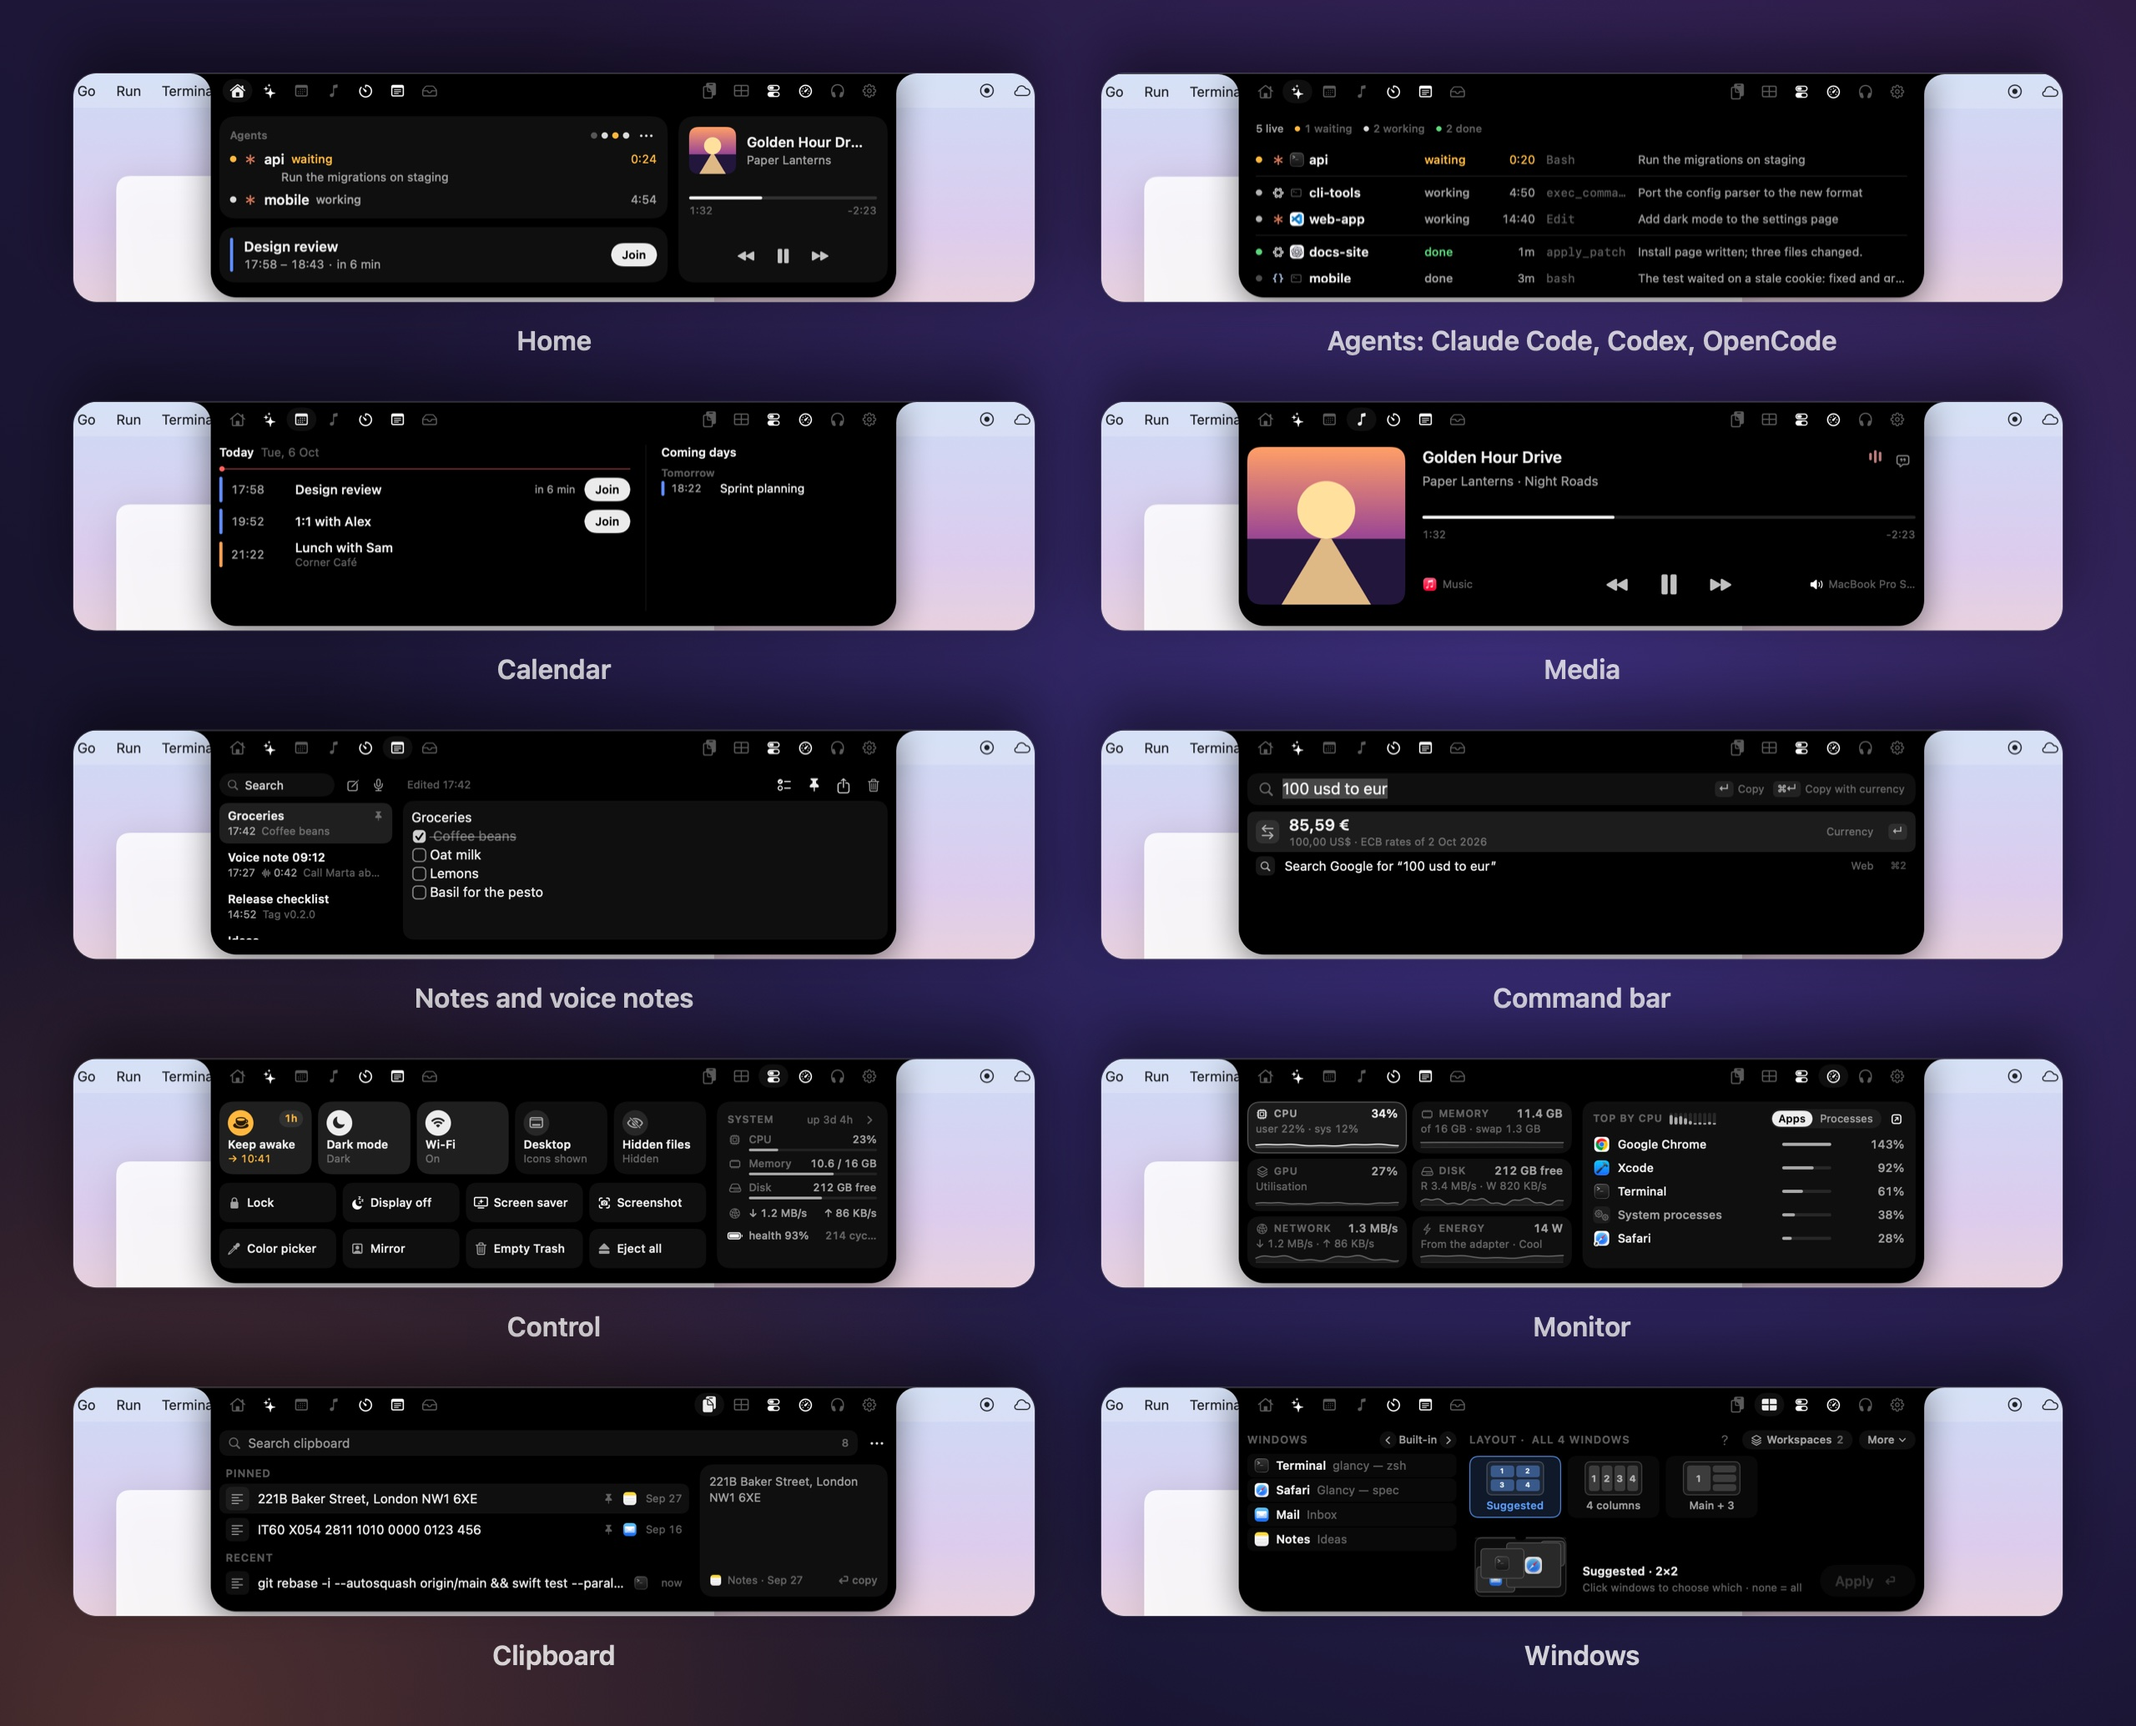
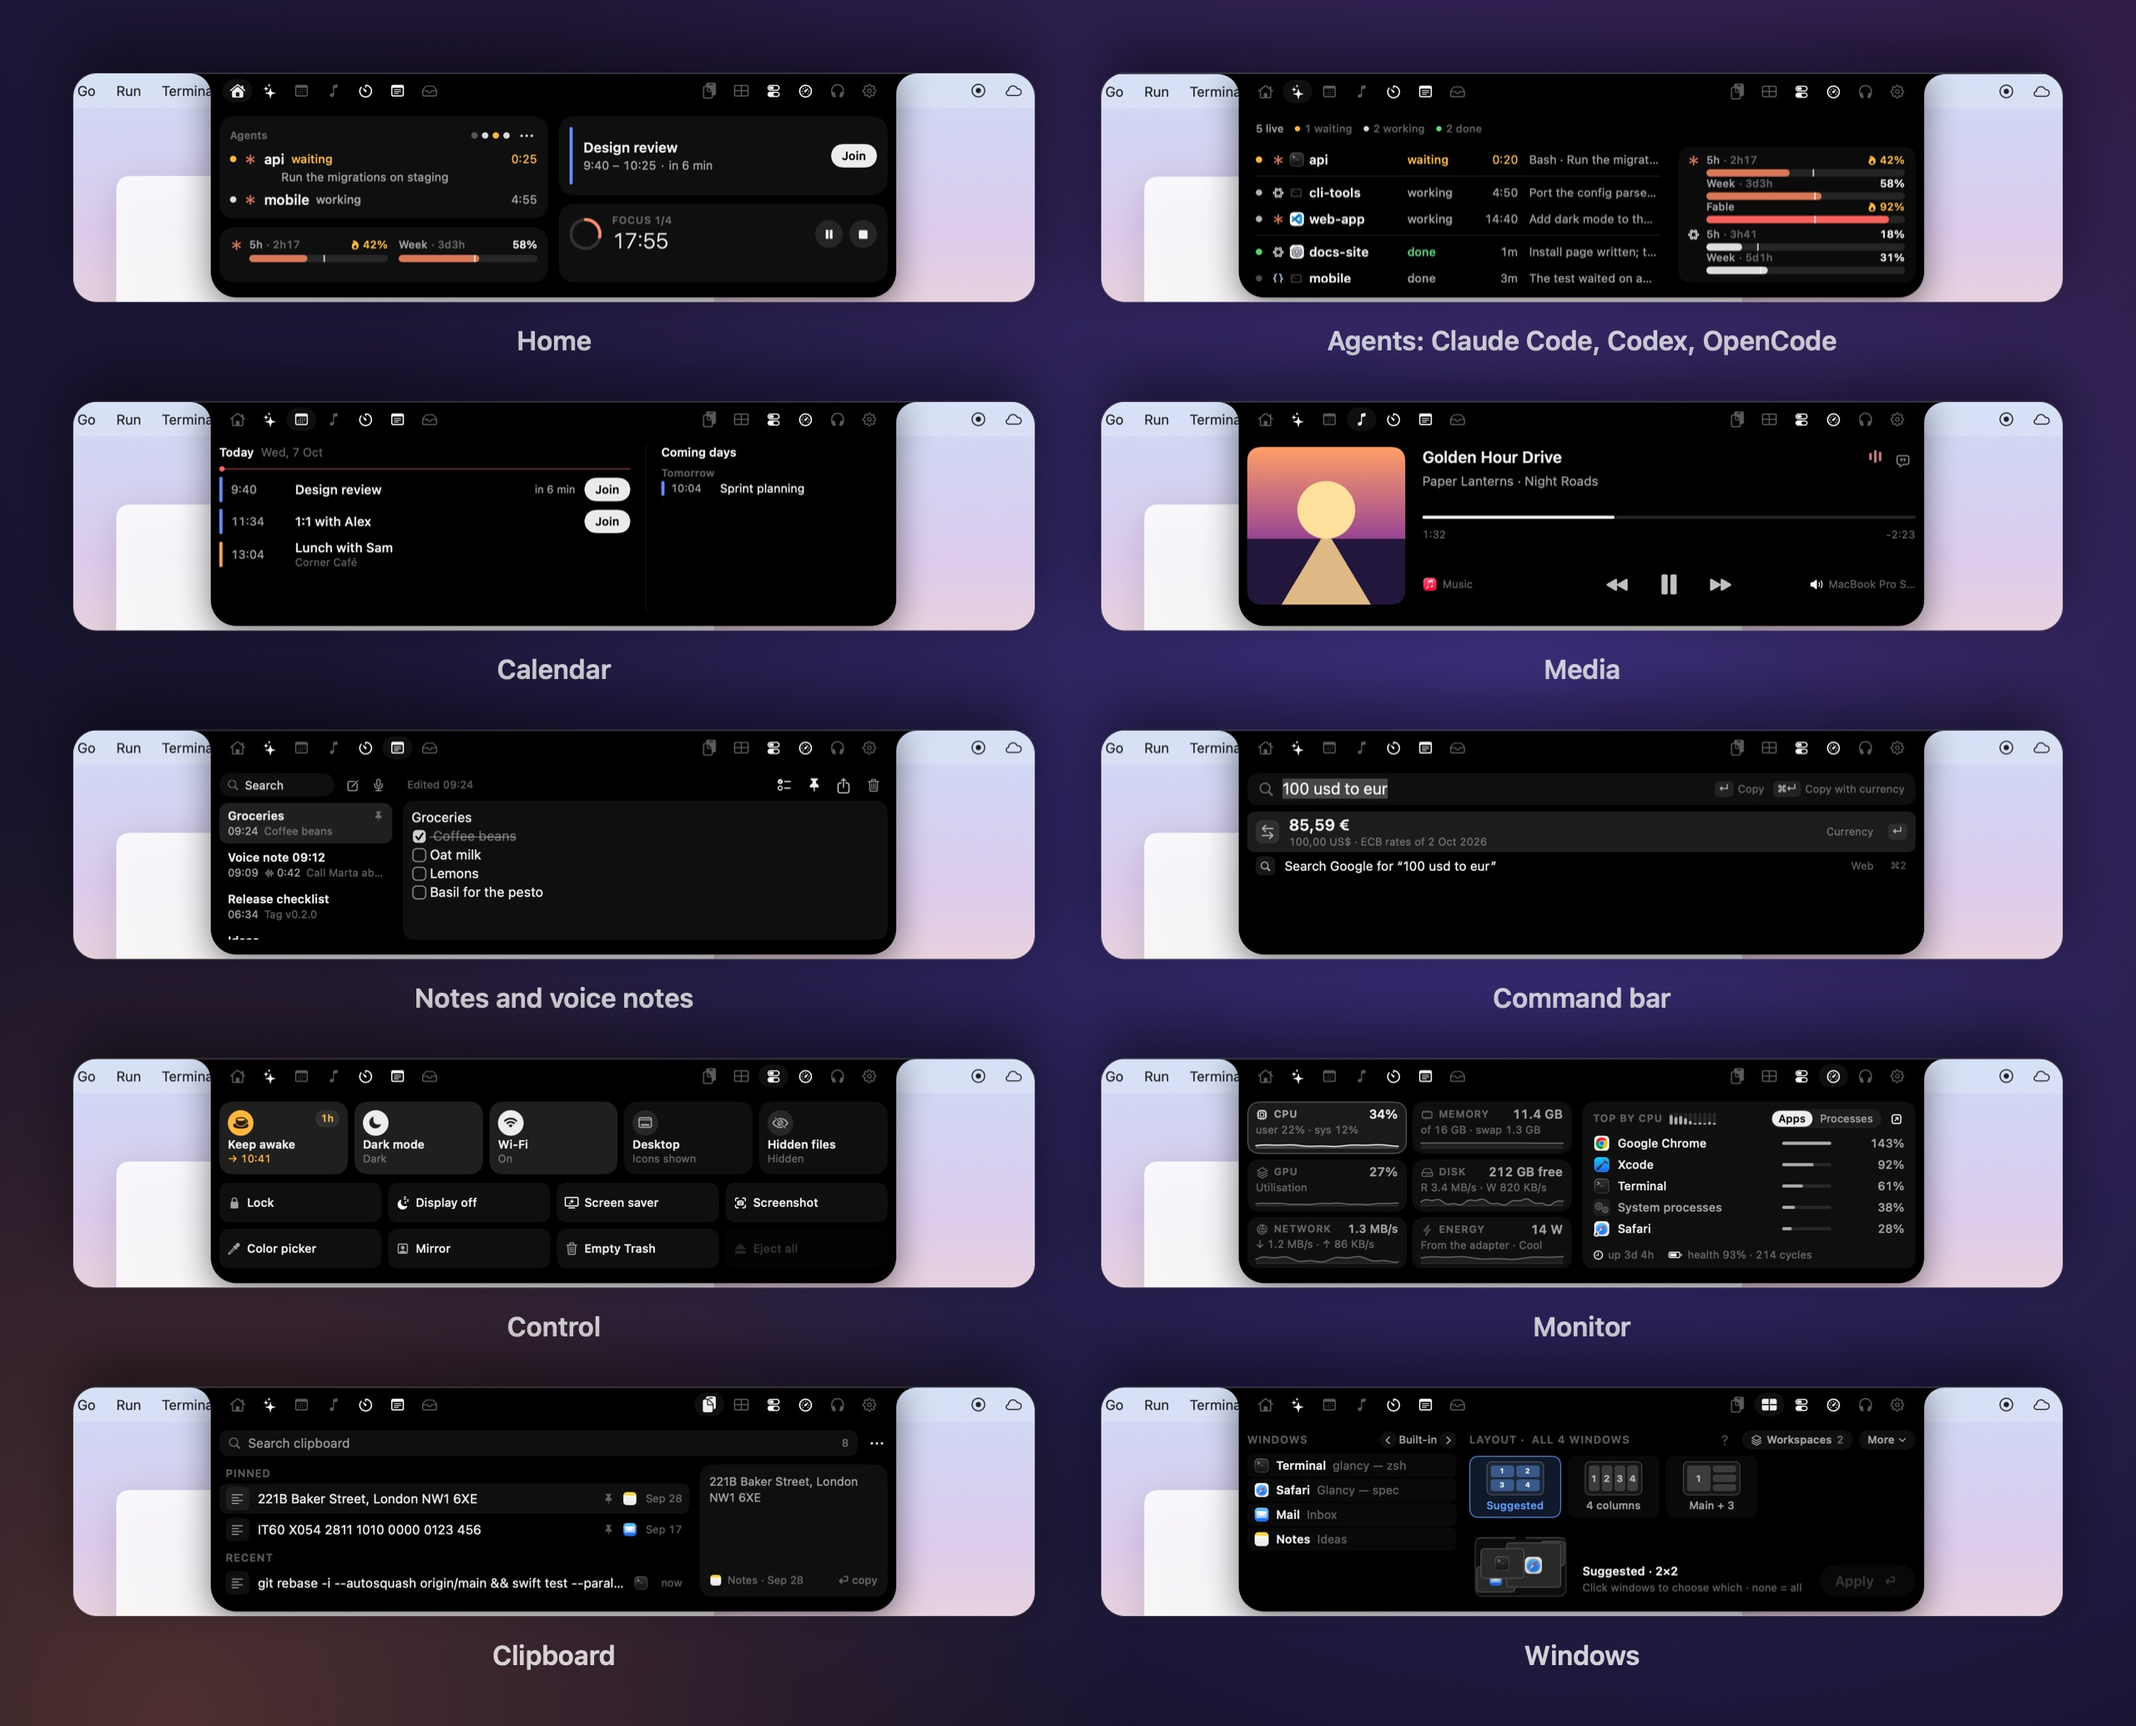
README images: Agents with the limits column, Control without the System card, Monitor's uptime and battery footer; renderer size shots honour --limits-cache

diff --git a/Sources/glancy-render/main.swift b/Sources/glancy-render/main.swift
@@ -335,9 +335,11 @@ enum Render {
         }
         // Agents from every source (lot AG): made-up sessions — Claude Code in Terminal and in VS
         // Code, the Codex CLI and the Codex app, OpenCode — the waiting wing, the board, Home, the
-        // waiting peek. Nothing of the user's is read; no window is touched.
+        // waiting peek, with the sample plan limits beside the board. Nothing of the user's is read;
+        // no window is touched.
         do {
             let agents = AgentsModule.renderSample()
+            agents.seedLimitsSample()
             let hub = ActivityHub()
             agents.start(hub: hub)
             let ctx = SurfaceContext(hub: hub, settings: settings, launchAtLogin: launch, modules: [agents])
@@ -450,7 +452,7 @@ enum Render {
                 settings.navigation.go(.index, animated: false)
                 // Agents: the wings, the tab, the waiting drop-down.
                 let sizeAgents = AgentsModule.renderSample()
-                sizeAgents.seedLimitsSample()
+                seedSizeLimits(sizeAgents)
                 let hub = ActivityHub()
                 sizeAgents.start(hub: hub)
                 let ctx = SurfaceContext(hub: hub, settings: settings, launchAtLogin: launch, modules: [sizeAgents])
@@ -463,7 +465,7 @@ enum Render {
                 sizeAgents.stop()
                 // No session: the empty board beside the limits.
                 let noSessions = AgentsModule.renderEmpty()
-                noSessions.seedLimitsSample()
+                seedSizeLimits(noSessions)
                 let hub2 = ActivityHub()
                 noSessions.start(hub: hub2)
                 noSessions.visibilityChanged(.expanded(.agents))
@@ -730,3 +732,14 @@ private struct MenuBar: View {
 }
 
 Render.run()
+
+/// The size shots' limits: the owner's cached readings with `--limits-cache <file>` (read-only), else the sample.
+@MainActor
+func seedSizeLimits(_ agents: AgentsModule) {
+    if let i = CommandLine.arguments.firstIndex(of: "--limits-cache"), i + 1 < CommandLine.arguments.count {
+        let c = UsageLimitsStore.readCache(URL(fileURLWithPath: CommandLine.arguments[i + 1]))
+        agents.seedLimits(claude: c.claude, codex: c.codex, breakdown: nil)
+    } else {
+        agents.seedLimitsSample()
+    }
+}
